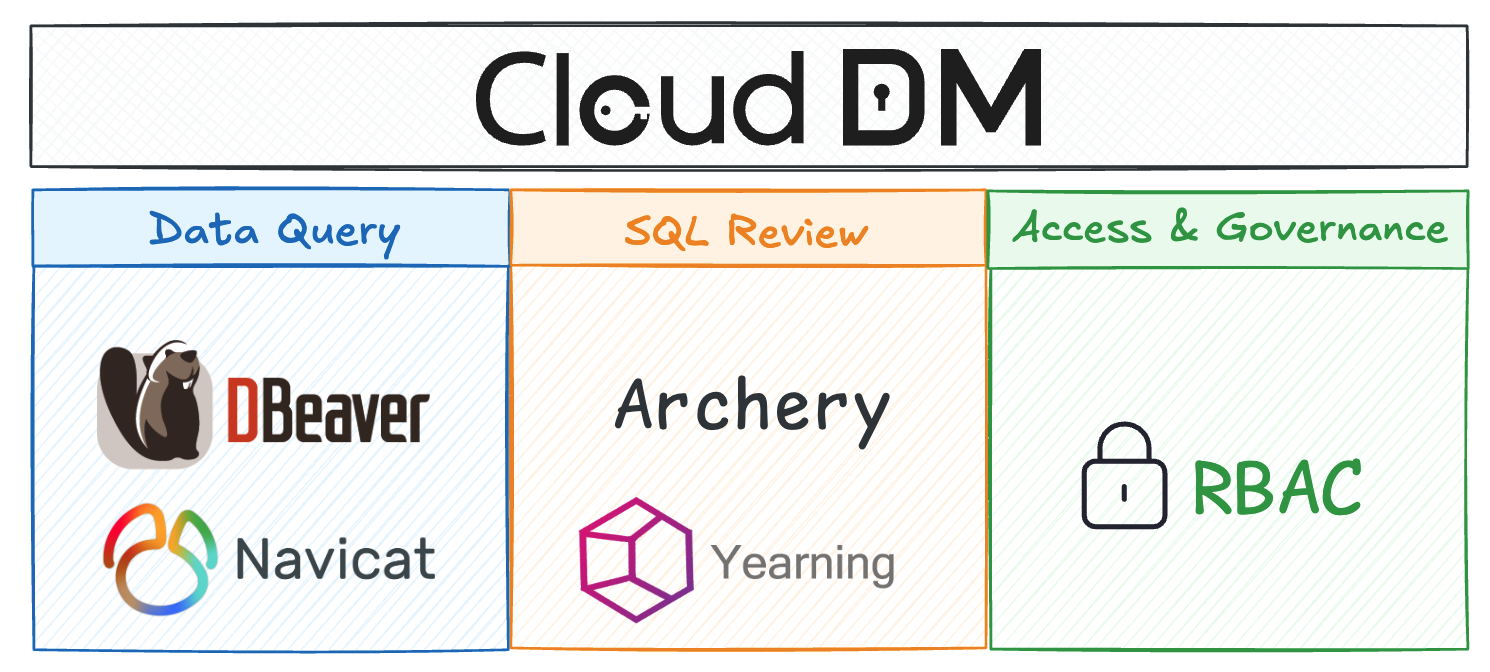
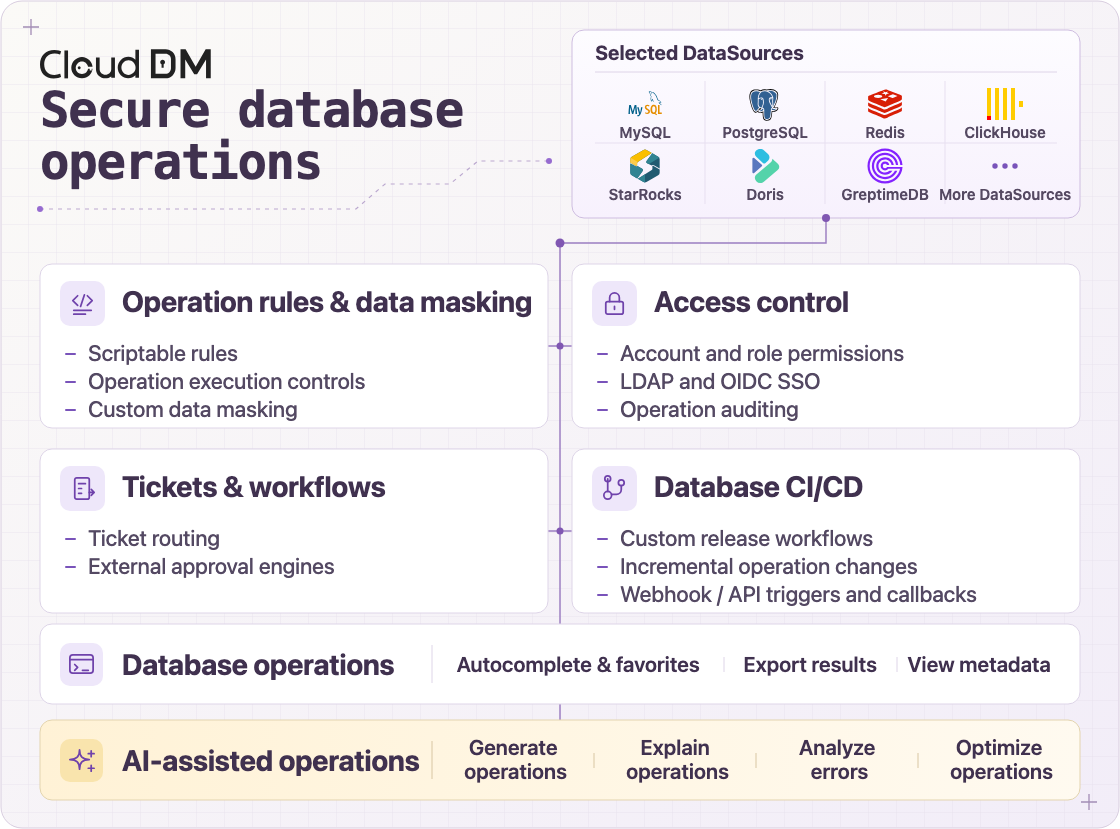
chore:readme opt (#482)

Changed region(s): [[0.0, 0.0312, 1.0, 1.0], [0.875, 0.0938, 0.9375, 0.1875]]

diff --git a/docs/README.en.md b/docs/README.en.md
@@ -11,10 +11,11 @@
 </p>
 
 <p align="center">
-  A free and open-source database management tool for teams, featuring an AI SQL assistant, access control, data masking, SQL auditing, CI/CD, and cross-region deployment.
+  CloudDM is a free, open-source database management tool that helps teams query data, manage access, and roll out reviewed database changes from a single web console.
 </p>
 
 <p align="center">
+  <a href="#quick-start"><b>Quick Start</b></a> •
 	<a href="https://www.cdmgr.com/"><b>Home</b></a> •
 	<a href="https://www.cdmgr.com/docs/intro/product_intro"><b>Docs</b></a> •
     <a href="https://www.cdmgr.com/blog"><b>Blog</b></a> •
@@ -27,7 +28,7 @@
     [<a target="_blank" href='./README.en.md'>English</a>]
 </p>
 
-![pic_en.png](assets/en/pic.png)
+![CloudDM capabilities for secure database operations](assets/en/pic.png)
 
 ---
 
@@ -48,47 +49,39 @@
 
 ## Core Capabilities
 
-### Data Query
+### DataSources
 
-- Rich data source support covering many database types
-    - MySQL, Oracle, MariaDB, PostgreSQL, IBM DB2, SQL Server, OceanBase
-    - SAP Hana, StarRocks, Doris, SelectDB, ClickHouse, PolarDB, TiDB, Greenplum
-    - Hologres, CockroachDB, DM (Dameng), GaussDB, AnalyticDB MySQL, MaxCompute, Redis, MongoDB
-- Unified web console access to databases, with support for transactions, isolation levels, and execution plans
-- Query editor, syntax highlighting, intelligent suggestions, execution plans, and result export
+![Overview of CloudDM's 44 supported DataSource types](assets/supported-databases.en.png)
 
-### Database Management
+### Operation Rules and Data Masking
 
-- Supported database objects include databases, schemas, tables, columns, indexes, views, functions, stored procedures,
-  triggers, users, roles, and more
-- Visual management of database objects such as create, delete, modify, and inspect properties
-- Management of different data sources through environments and clusters
+- Check SQL before execution and use rules to warn about or block risky statements.
+- Extend the built-in rules with scripts and apply custom masking to sensitive data.
 
 ### Access Control
 
-- Authorization model that separates **resources** and **functions**
-    - Resource permissions can be granted at the instance, database, schema, and table levels, depending on the
-      statement type
-    - Function authorization uses role-based access control (RBAC) by granting roles to users
-- Supports **permission requests**, **permission grants**, and **temporary permissions**
+- Use role-based access control (RBAC) to assign feature permissions and grant resource access at the instance, database, schema, or table level. Handle access requests and issue temporary grants.
+- Integrate with OpenLDAP, Active Directory, or an OIDC provider for authentication. Review user activity in the audit log.
+
+### Tickets and Workflows
+
+- Use tickets to review SQL changes and access requests. Execute approved changes manually, immediately, or at a scheduled time.
+- Use CloudDM's built-in approval engine or connect DingTalk, Feishu, or WeCom.
 
 ### Database CI/CD
 
-- Provides three ways to trigger CI/CD workflows: **Git Push**, **Web Hook**, and **HttpCall**
-- Supports Gitee and [GitLab Self-Managed](guides/gitlab-cicd.en.md) as change repositories
+- Configure release workflows and track incremental changes to database scripts.
+- Trigger releases through Git push, a webhook, or the HTTP API, and send change results to external systems via callbacks.
+- Use Gitee or [GitLab Self-Managed](guides/gitlab-cicd.en.md) as the repository for database changes.
 
-### SQL Auditing
+### Database Operations
 
-- Supports **audit rules**, **security policies**, and **data masking**
-    - Includes 54 built-in rules and supports custom extensions through rule scripts
-- Supports SQL pre-checks before execution to warn about or block risky statements
+- Run queries and transactions in a web console with syntax highlighting, autocomplete, and favorites. Inspect execution plans and export query results.
+- Browse metadata and manage database objects such as tables and indexes.
 
-### Collaboration and Workflow
+### AI-Assisted Operations
 
-- Supports three workflow types: **SQL audit**, **permission tickets**, and **change workflows**
-- Supports **manual execution**, **immediate execution**, and **scheduled execution** for work orders
-- Workflow engines: built-in, DingTalk, Feishu, WeCom
-- Unified authentication / SSO: OpenLDAP / OpenID Connect (OIDC) / Windows AD / DingTalk / Feishu / WeCom
+Use the AI assistant to generate and explain SQL, analyze errors, and get optimization suggestions.
 
 ## Quick Start
 
@@ -192,7 +185,7 @@ http://localhost:8222
 > On first access after a fresh deployment, the initialization wizard will open; during an upgrade, the upgrade wizard
 > will open.
 >
-> If you not change the account, the default account is **admin@cdmgr.com**
+> The default account is **admin@cdmgr.com**.
 
 ### Add Data Source
 

diff --git a/README.md b/README.md
@@ -11,10 +11,11 @@
 </p>
 
 <p align="center">
-  A free and open-source database management tool for teams, featuring an AI SQL assistant, access control, data masking, SQL auditing, CI/CD, and cross-region deployment.
+  CloudDM is a free, open-source database management tool that helps teams query data, manage access, and roll out reviewed database changes from a single web console.
 </p>
 
 <p align="center">
+  <a href="#quick-start"><b>Quick Start</b></a> •
 	<a href="https://www.cdmgr.com/"><b>Home</b></a> •
 	<a href="https://www.cdmgr.com/docs/intro/product_intro"><b>Docs</b></a> •
     <a href="https://www.cdmgr.com/blog"><b>Blog</b></a> •
@@ -27,7 +28,7 @@
     [<a target="_blank" href='docs/README.en.md'>English</a>]
 </p>
 
-![pic_en.png](docs/assets/en/pic.png)
+![CloudDM capabilities for secure database operations](docs/assets/en/pic.png)
 
 ---
 
@@ -48,45 +49,39 @@
 
 ## Core Capabilities
 
-### Data Query
+### Databases
 
-- Rich data source support covering many database types
-  - MySQL, Oracle, MariaDB, PostgreSQL, IBM DB2, SQL Server, OceanBase
-  - SAP Hana, StarRocks, Doris, SelectDB, ClickHouse, PolarDB, TiDB, Greenplum
-  - Hologres, DM (Dameng), GaussDB, AnalyticDB MySQL, MaxCompute, Redis, MongoDB
-- Unified web console access to databases, with support for transactions, isolation levels, and execution plans
-- Query editor, syntax highlighting, intelligent suggestions, execution plans, and result export
+![Overview of CloudDM's 44 supported DataSource types](docs/assets/supported-databases.en.png)
 
-### Database Management
+### Operation Rules and Data Masking
 
-- Supported database objects include databases, schemas, tables, columns, indexes, views, functions, stored procedures, triggers, users, roles, and more
-- Visual management of database objects such as create, delete, modify, and inspect properties
-- Management of different data sources through environments and clusters
+- Check SQL before execution and use rules to warn about or block risky statements.
+- Extend the built-in rules with scripts and apply custom masking to sensitive data.
 
 ### Access Control
 
-- Authorization model that separates **resources** and **functions**
-  - Resource permissions can be granted at the instance, database, schema, and table levels, depending on the statement type
-  - Function authorization uses role-based access control (RBAC) by granting roles to users
-- Supports **permission requests**, **permission grants**, and **temporary permissions**
+- Use role-based access control (RBAC) to assign feature permissions and grant resource access at the instance, database, schema, or table level. Handle access requests and issue temporary grants.
+- Integrate with OpenLDAP, Active Directory, or an OIDC provider for authentication. Review user activity in the audit log.
+
+### Tickets and Workflows
+
+- Use tickets to review SQL changes and access requests. Execute approved changes manually, immediately, or at a scheduled time.
+- Use CloudDM's built-in approval engine or connect DingTalk, Feishu, or WeCom.
 
 ### Database CI/CD
 
-- Provides three ways to trigger CI/CD workflows: **Git Push**, **Web Hook**, and **HttpCall**
-- Supports Gitee as the change repository
+- Configure release workflows and track incremental changes to database scripts.
+- Trigger releases through Git push, a webhook, or the HTTP API, and send change results to external systems via callbacks.
+- Use Gitee or [GitLab Self-Managed](docs/guides/gitlab-cicd.en.md) as the repository for database changes.
 
-### SQL Auditing
+### Database Operations
 
-- Supports **audit rules**, **security policies**, and **data masking**
-  - Includes 54 built-in rules and supports custom extensions through rule scripts
-- Supports SQL pre-checks before execution to warn about or block risky statements
+- Run queries and transactions in a web console with syntax highlighting, autocomplete, and favorites. Inspect execution plans and export query results.
+- Browse metadata and manage database objects such as tables and indexes.
 
-### Collaboration and Workflow
+### AI-Assisted Operations
 
-- Supports three workflow types: **SQL audit**, **permission tickets**, and **change workflows**
-- Supports **manual execution**, **immediate execution**, and **scheduled execution** for work orders
-- Workflow engines: built-in, DingTalk, Feishu, WeCom
-- Unified authentication / SSO: OpenLDAP / OpenID Connect (OIDC) / Windows AD / DingTalk / Feishu / WeCom
+Use the AI assistant to generate and explain SQL, analyze errors, and get optimization suggestions.
 
 ## Quick Start
 
@@ -181,7 +176,7 @@ http://localhost:8222
 
 > On first access after a fresh deployment, the initialization wizard will open; during an upgrade, the upgrade wizard will open.
 >
-> If you not change the account, the default account is **admin@cdmgr.com**
+> The default account is **admin@cdmgr.com**.
 
 ### Add Data Source
 

diff --git a/docs/README.cn.md b/docs/README.cn.md
@@ -11,10 +11,11 @@
 </p>
 
 <p align="center">
-  一款面向团队的免费开源数据库管理工具，支持AI SQL 助手，以及访问控制、数据脱敏、SQL 审核、CI/CD 和跨地区部署。
+  CloudDM 是面向团队的免费开源数据库管理工具。团队可通过统一的 Web 控制台查询数据、管理访问权限，并审核和发布数据库变更。
 </p>
 
 <p align="center">
+  <a href="#快速开始"><b>快速开始</b></a> •
 	<a href="https://www.cdmgr.com/"><b>首页</b></a> •
 	<a href="https://www.cdmgr.com/docs/intro/product_intro"><b>文档</b></a> •
     <a href="https://www.cdmgr.com/blog"><b>Blog</b></a> •
@@ -28,7 +29,7 @@
     [<a target="_blank" href='reference/faq.cn.md'>FAQ</a>]
 </p>
 
-![pic_cn.png](assets/cn/pic.png)
+![CloudDM 数据安全操作功能概览](assets/cn/pic.png)
 
 ---
 
@@ -49,45 +50,39 @@
 
 ## 核心能力
 
-### 数据查询
+### 数据库
 
-- 支持丰富的数据源类型
-    - MySQL、Oracle、MariaDB、PostgreSQL、IBM DB2、SQL Server、OceanBase
-    - SAP Hana、StarRocks、Doris、SelectDB、ClickHouse、PolarDB、TiDB、Greenplum
-    - Hologres、CockroachDB、达梦、高斯数据库、AnalyticDB MySQL、MaxCompute、Redis、MongoDB
-- 通过统一 Web 控制台访问数据库，支持事务、隔离级别和查询计划
-- 提供查询编辑器、语法高亮、智能提示、执行计划、结果导出等能力
+![CloudDM 支持的 44 种主流数据库概览](assets/supported-databases.png)
 
-### 数据库管理
+### 操作规范与数据脱敏
 
-- 支持数据库对象包括：库、模式、表、列、索引、视图、函数、存储过程、触发器、用户、角色等
-- 支持可视化管理数据库对象，如创建、删除、修改和查看属性
-- 支持通过环境和集群管理不同数据源
+- 在执行 SQL 前检查风险，按规则发出警告或阻止执行。
+- 使用脚本扩展内置规则，并按需对敏感数据进行自定义脱敏。
 
 ### 权限控制
 
-- 采用 **资源** 与 **功能** 分离的授权模式
-    - 资源权限可在实例、数据库、Schema、表上进行授权，具体取决于语句类型
-    - 功能授权基于角色访问控制（RBAC），通过角色授权到人
-- 支持 **申请权限**、**赋予权限** 及 **临时权限**
+- 通过基于角色的访问控制（RBAC）分配功能权限，按实例、数据库、Schema 或表授予资源权限。支持权限申请和临时授权。
+- 支持 OpenLDAP、Active Directory 和 OIDC 等身份认证方式，可在操作审计中查看操作记录。
+
+### 工单与流程
+
+- 通过工单审核 SQL 变更和权限申请。审批通过后可手动、立即或定时执行变更。
+- 可使用内置审批引擎，也可对接钉钉、飞书或企业微信。
 
 ### 数据库 CI/CD
 
-- 提供 **Git Push**、**Web Hook**、**HttpCall** 三种方式触发 CI/CD 流程
-- 支持 Gitee 和 [GitLab Self-Managed](guides/gitlab-cicd.cn.md) 作为变更仓库
+- 自定义发布流程，跟踪数据库脚本的增量变更。
+- 通过 Git Push、Webhook 或 HTTP API 触发发布，并将变更结果回调给外部系统。
+- 支持使用 Gitee 或 [GitLab Self-Managed](guides/gitlab-cicd.cn.md) 管理数据库变更。
 
-### SQL 审核
+### 数据库操作
 
-- 支持 **审核规则**、**安全规范** 和 **数据脱敏**
-    - 内置 54 条规则，并支持通过规则脚本自定义扩展
-- 支持在 SQL 执行前进行 SQL 预检，提示风险或阻断执行
+- 在 Web 控制台执行查询和事务，支持语法高亮、自动补全和收藏，可查看执行计划并导出查询结果。
+- 浏览元数据，并管理表、索引等数据库对象。
 
-### 协同与流程
+### AI 辅助操作
 
-- 支持 **SQL 审核**、**权限工单**、**变更流程** 三种流程
-- 支持 **手动执行**、**立即执行**、**定时执行** 三种方式执行工单
-- 流程引擎：内置、钉钉、飞书、企业微信
-- 统一认证/SSO：OpenLDAP / OpenID Connect (OIDC) / Windows AD / 钉钉 / 飞书 / 企业微信
+使用 AI 助手生成和解释 SQL、分析报错并获取优化建议。
 
 ## 快速开始
 
